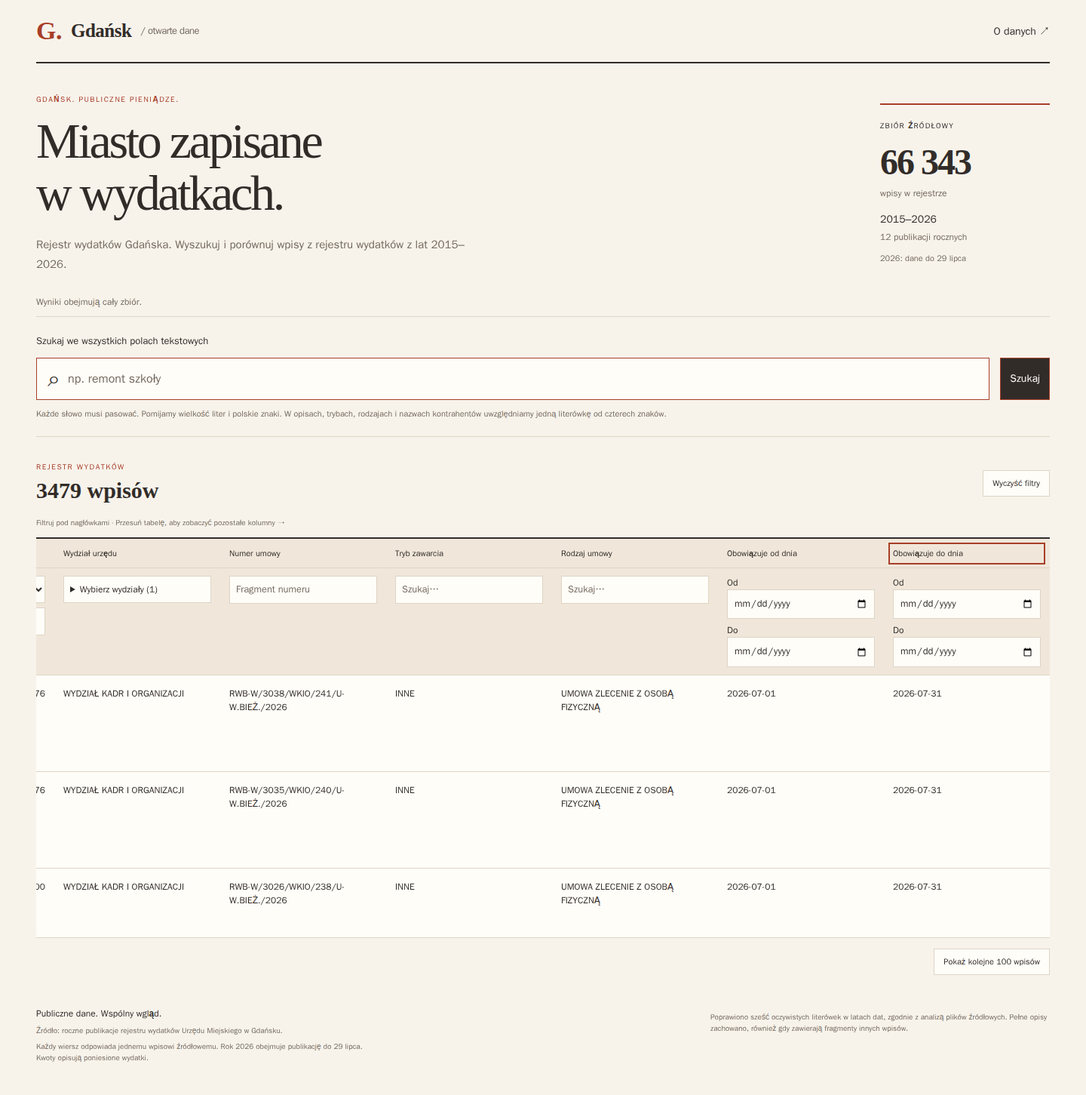
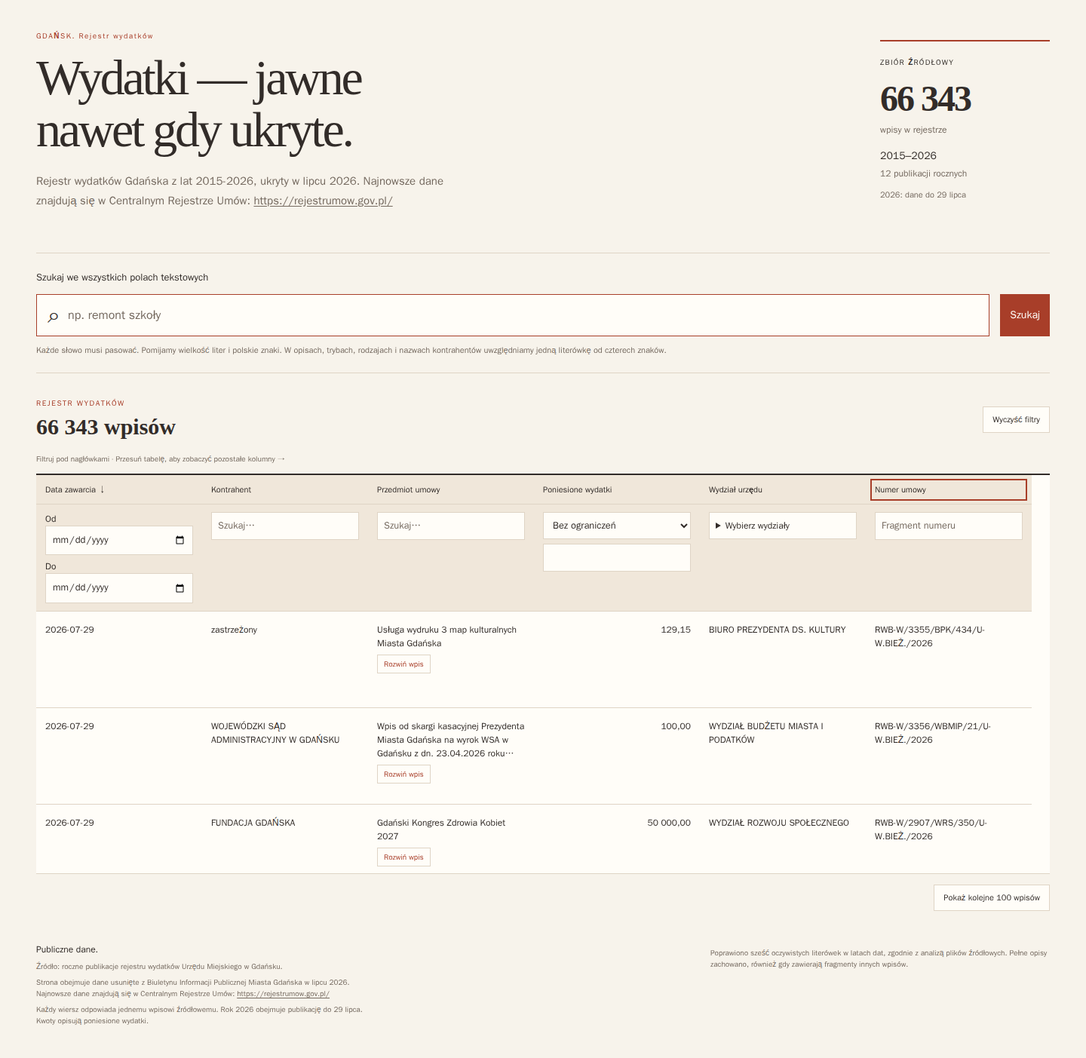
refine public copy and expense table

diff --git a/site/main.ts b/site/main.ts
@@ -1,10 +1,10 @@
 import './style.css';
 import { PAGE_SIZE } from '../src/pagination.ts';
-import { DATE_FIELDS, FUZZY_FIELDS, LABELS, normalize } from '../src/search/model.ts';
+import { LABELS, normalize } from '../src/search/model.ts';
 import type { Entry, Filters, Result } from '../src/search/model.ts';
 import type { PublicQuery } from '../src/search/public-query.ts';
 import type { Request, Response } from '../src/search/protocol.ts';
-import { COLUMNS, renderRow } from '../src/ui/record.ts';
+import { TABLE_COLUMNS, renderRow } from '../src/ui/record.ts';
 import { windowFor } from '../src/ui/window.ts';
 
 function get<T extends HTMLElement = HTMLElement>(id: string): T {
@@ -21,7 +21,8 @@ const status = get('status');
 const more = get<HTMLButtonElement>('more');
 const tableScroll = document.querySelector<HTMLElement>('.table-scroll')!;
 const integer = new Intl.NumberFormat('pl-PL');
-const textFields = [...FUZZY_FIELDS, 'contractNumber'] as const;
+const textFields = ['contractorName', 'contractSubject', 'contractNumber'] as const;
+const dateFields = ['contractDate'] as const;
 const departments = new Set<string>();
 let facets: Result['facets'] = [];
 let sort: NonNullable<PublicQuery['sort']> = { field: 'contractDate', direction: 'desc' };
@@ -37,7 +38,7 @@ function textControl(id: string, label: string, type = 'search') {
   control.id = id; control.type = type; control.setAttribute('aria-label', label);
   return control;
 }
-for (const field of COLUMNS) {
+for (const field of TABLE_COLUMNS) {
   const heading = document.createElement('th'); heading.scope = 'col'; heading.dataset.field = field;
   const button = document.createElement('button'); button.type = 'button'; button.textContent = LABELS[field];
   button.addEventListener('click', () => {
@@ -50,7 +51,7 @@ for (const field of COLUMNS) {
     const control = textControl('filter-' + field, 'Filtr: ' + LABELS[field]);
     control.placeholder = field === 'contractNumber' ? 'Fragment numeru' : 'Szukaj…';
     cell.append(control);
-  } else if (DATE_FIELDS.includes(field as typeof DATE_FIELDS[number])) {
+  } else if (dateFields.includes(field as typeof dateFields[number])) {
     for (const [key, label] of [['from', 'Od'], ['to', 'Do']]) {
       const wrapper = document.createElement('label'); wrapper.textContent = label;
       wrapper.append(textControl(field + '-' + key, LABELS[field] + ': ' + label, 'date'));
@@ -81,7 +82,7 @@ function currentQuery(): PublicQuery {
   if (operator && Number.isFinite(amount.valueAsNumber)) {
     filters.amount = { operator: operator as '>' | '<', value: amount.valueAsNumber };
   }
-  for (const field of DATE_FIELDS) {
+  for (const field of dateFields) {
     const from = input(field + '-from').value, to = input(field + '-to').value;
     input(field + '-to').setCustomValidity(from && to && from > to ? 'Data końcowa nie może poprzedzać początkowej.' : '');
     if (from || to) filters.dates![field] = { from, to };
@@ -139,7 +140,7 @@ function renderWindow(rows: Entry[], offset: number) {
   const fragment = document.createDocumentFragment();
   function spacer(height: number) {
     const row = document.createElement('tr'); row.className = 'table-spacer'; row.setAttribute('aria-hidden', 'true');
-    const cell = document.createElement('td'); cell.colSpan = COLUMNS.length; cell.style.height = height + 'px';
+    const cell = document.createElement('td'); cell.colSpan = TABLE_COLUMNS.length; cell.style.height = height + 'px';
     row.append(cell); fragment.append(row);
   }
   if (bounds.top) spacer(bounds.top);
@@ -199,7 +200,7 @@ function start() {
     get('count').textContent = integer.format(total) + ' wpisów'; get('count').dataset.total = String(total);
     get('empty').hidden = total !== 0;
     more.hidden = bounds.visible >= total; more.disabled = false;
-    status.textContent = 'Wyniki obejmują cały zbiór.';
+    status.textContent = '';
     requestAnimationFrame(() => updateWindow());
   };
   send({ type: 'init', baseUrl: new URL(import.meta.env.BASE_URL, document.baseURI).href });

diff --git a/tests/site/browser/site.spec.ts b/tests/site/browser/site.spec.ts
@@ -15,8 +15,18 @@ async function submit(page: Page) {
 }
 test('pełny zbiór, stałe ustawienia i dwie kolumny', async ({ page }) => {
   await ready(page);
+  await expect(page.locator('body > .page > header')).toHaveCount(0);
+  await expect(page.getByText('GDAŃSK. Rejestr wydatków', { exact: true })).toBeVisible();
+  await expect(page.getByRole('heading', { name: 'Wydatki — jawne nawet gdy ukryte.' })).toBeVisible();
+  await expect(page.getByText('Rejestr wydatków Gdańska z lat 2015-2026, ukryty w lipcu 2026.', { exact: false })).toBeVisible();
+  await expect(page.getByText('Strona obejmuje dane usunięte z Biuletynu Informacji Publicznej Miasta Gdańska w lipcu 2026.', { exact: false })).toBeVisible();
+  await expect(page.getByRole('link', { name: 'https://rejestrumow.gov.pl/' })).toHaveCount(2);
+  await expect(page.getByText('Wyniki obejmują cały zbiór.', { exact: true })).toHaveCount(0);
   await expect(page.locator('tr.entry-row')).toHaveCount(100);
   await expect(page.locator('#profile, #combine, #scope, #example')).toHaveCount(0);
+  await expect(page.locator('#headings th')).toHaveCount(6);
+  await expect(page.getByRole('button', { name: /^(Tryb zawarcia|Rodzaj umowy|Obowiązuje od dnia|Obowiązuje do dnia)$/ })).toHaveCount(0);
+  await expect(page.locator('#filter-contractProcedure, #filter-contractType, #contractStartDate-from, #contractStartDate-to, #contractEndDate-from, #contractEndDate-to')).toHaveCount(0);
   await page.locator('#filter-contractorName').fill('prescom');
   await page.locator('#filter-contractSubject').fill('szkolenie');
   await submit(page);
@@ -46,6 +56,10 @@ test('wąski ekran i pełny długi opis', async ({ page }) => {
   await page.getByRole('button', { name: 'Rozwiń wpis 2015:2614', exact: true }).click();
   await expect(page.locator('#record-dialog')).toBeVisible();
   await expect(page.locator('#record-fields')).toContainText('MIECZYSŁAW ROBAKOWSKI');
+  await expect(page.locator('#record-fields')).toContainText('Tryb zawarcia');
+  await expect(page.locator('#record-fields')).toContainText('Rodzaj umowy');
+  await expect(page.locator('#record-fields')).toContainText('Obowiązuje od dnia');
+  await expect(page.locator('#record-fields')).toContainText('Obowiązuje do dnia');
   await page.keyboard.press('Escape');
   await expect(page.locator('#record-dialog')).not.toBeVisible();
   expect(await page.evaluate(() => document.documentElement.scrollWidth <= innerWidth)).toBe(true);
@@ -101,7 +115,7 @@ test('wysokość wierszy odpowiada oknu także po zmianie szerokości', async ({
     expect([...new Set(heights)]).toEqual([ROW_HEIGHT]);
     const table = page.locator('.table-scroll');
     await table.evaluate(element => { element.scrollLeft = element.scrollWidth; });
-    await expect(page.getByRole('button', { name: 'Obowiązuje do dnia', exact: true })).toBeInViewport();
+    await expect(page.getByRole('button', { name: 'Numer umowy', exact: true })).toBeInViewport();
     expect(await page.evaluate(() => document.documentElement.scrollWidth <= innerWidth)).toBe(true);
   }
 });

diff --git a/site/style.css b/site/style.css
@@ -10,6 +10,7 @@ body {
 .visually-hidden { position: absolute; width: 1px; height: 1px; padding: 0; overflow: hidden; clip-path: inset(50%); white-space: nowrap; }
 a { color: inherit; text-decoration: none; }
 a:hover { text-decoration: underline; }
+.intro a, footer a { text-decoration: underline; text-underline-offset: 2px; overflow-wrap: anywhere; }
 button, input, select { font: inherit; color: inherit; border: 1px solid var(--line); border-radius: 0; background: var(--paper); padding: 8px 12px; }
 button { cursor: pointer; }
 button:hover { background: var(--soft); }
@@ -18,10 +19,6 @@ input, select { min-width: 0; width: 100%; padding: 8px; }
 input::placeholder { color: var(--muted); opacity: 1; }
 :focus-visible { outline: 2px solid var(--accent); outline-offset: 4px; }
 .page { max-width: 1680px; margin: auto; }
-header { margin: 0 48px; display: flex; align-items: center; justify-content: space-between; gap: 16px; padding: 22px 0; border-bottom: 2px solid var(--ink); }
-.wordmark { display: flex; align-items: center; gap: 12px; font: 750 25px Georgia, serif; letter-spacing: -.5px; }
-.wordmark > span:last-child { font: 400 13px system-ui, sans-serif; color: var(--muted); }
-.mark { color: var(--accent); display: inline-grid; place-items: center; font: bold 34px Georgia, serif; }
 main { padding: 0 48px; }
 .hero { display: flex; justify-content: space-between; gap: 48px; padding: 40px 0 28px; }
 .eyebrow { color: var(--accent); font-size: 10px; font-weight: 750; letter-spacing: .15em; margin: 0 0 14px; }
@@ -52,7 +49,7 @@ fieldset { min-width: 0; border: 0; margin: 0; padding: 0; }
 .table-toolbar button { font-size: 11px; }
 .scroll-hint { color: var(--muted); font-size: 10px; margin: 0 0 12px; }
 .table-scroll { overflow: auto; overflow-anchor: none; max-height: 530px; position: relative; border-top: 2px solid var(--ink); background: var(--paper); scrollbar-color: var(--muted) var(--soft); }
-table { border-collapse: separate; border-spacing: 0; table-layout: fixed; width: 2200px; font-size: 12px; }
+table { border-collapse: separate; border-spacing: 0; table-layout: fixed; width: 1320px; font-size: 12px; }
 thead { position: sticky; top: 0; z-index: 2; background: var(--soft); }
 th, td { width: 220px; min-width: 0; max-width: none; text-align: left; padding: 10px 12px; border-bottom: 1px solid var(--line); vertical-align: top; overflow-wrap: anywhere; }
 th { white-space: normal; font-weight: 550; }
@@ -91,14 +88,9 @@ dialog dd { margin: 6px 0 18px; white-space: pre-wrap; overflow-wrap: anywhere; 
 dialog dt { font-size: 10px; text-transform: uppercase; letter-spacing: .06em; color: var(--muted); font-weight: 650; }
 @media (max-width: 900px) {
   main { padding: 0 24px; }
-  header { margin: 0 24px; }
   .hero { gap: 24px; }
 }
 @media (max-width: 600px) {
-  header { margin: 0 18px; padding: 17px 0; }
-  .wordmark { gap: 8px; }
-  .wordmark > span:last-child { display: none; }
-  header > a:last-child { font-size: 11px; }
   main { padding: 0 18px; }
   .hero { padding: 28px 0 22px; display: block; }
   h1 { font-size: 45px; }

diff --git a/src/ui/record.ts b/src/ui/record.ts
@@ -1,8 +1,9 @@
 import { DATE_FIELDS, LABELS } from '../search/model.ts';
 import type { Entry } from '../search/model.ts';
-export const COLUMNS = ['contractDate', 'contractorName', 'contractSubject', 'contractCost', 'departmentOffice', 'contractNumber', 'contractProcedure', 'contractType', 'contractStartDate', 'contractEndDate'] as const;
+export const TABLE_COLUMNS = ['contractDate', 'contractorName', 'contractSubject', 'contractCost', 'departmentOffice', 'contractNumber'] as const;
+const DETAIL_FIELDS = [...TABLE_COLUMNS, 'contractProcedure', 'contractType', 'contractStartDate', 'contractEndDate'] as const;
 const amount = new Intl.NumberFormat('pl-PL', { minimumFractionDigits: 2, maximumFractionDigits: 2 });
-function display(entry: Entry, field: typeof COLUMNS[number]): string {
+function display(entry: Entry, field: typeof DETAIL_FIELDS[number]): string {
   if (field === 'contractCost') return amount.format(entry.contractCost);
   const value = entry[field];
   if (value === null) return 'Brak danych';
@@ -17,7 +18,7 @@ export function openRecord(entry: Entry) {
   const fields = document.querySelector('#record-fields')!;
   fields.replaceChildren();
   document.querySelector('#record-title')!.textContent = 'Pełny wpis ' + entry.id;
-  for (const field of COLUMNS) {
+  for (const field of DETAIL_FIELDS) {
     const label = document.createElement('dt'); label.textContent = LABELS[field];
     const value = document.createElement('dd'); value.textContent = display(entry, field);
     fields.append(label, value);
@@ -28,7 +29,7 @@ export function renderRow(entry: Entry, index: number): HTMLTableRowElement {
   const row = document.createElement('tr');
   row.className = 'entry-row'; row.dataset.id = entry.id;
   row.setAttribute('aria-rowindex', String(index + 3));
-  for (const field of COLUMNS) {
+  for (const field of TABLE_COLUMNS) {
     const cell = document.createElement('td');
     if (field === 'contractCost') cell.className = 'number';
     const box = document.createElement('div');

diff --git a/site/index.html b/site/index.html
@@ -7,16 +7,12 @@
 </head>
 <body class="editorial">
 <div class="page">
-<header>
-  <a class="wordmark" href="./"><span class="mark" aria-hidden="true">G.</span> Gdańsk <span>/ otwarte dane</span></a>
-  <a href="#o-danych">O danych ↗</a>
-</header>
 <main>
   <section class="hero" aria-labelledby="page-title">
     <div>
-      <p class="eyebrow">GDAŃSK. PUBLICZNE PIENIĄDZE.</p>
-      <h1 id="page-title">Miasto zapisane<br>w wydatkach.</h1>
-      <p class="intro">Rejestr wydatków Gdańska. Wyszukuj i porównuj wpisy z rejestru wydatków z lat 2015–2026.</p>
+      <p class="eyebrow">GDAŃSK. Rejestr wydatków</p>
+      <h1 id="page-title">Wydatki — jawne<br>nawet gdy ukryte.</h1>
+      <p class="intro">Rejestr wydatków Gdańska z lat 2015-2026, ukryty w lipcu 2026. Najnowsze dane znajdują się w Centralnym Rejestrze Umów: <a href="https://rejestrumow.gov.pl/">https://rejestrumow.gov.pl/</a></p>
     </div>
     <div class="collection">
       <span class="collection-label">ZBIÓR ŹRÓDŁOWY</span>
@@ -58,8 +54,9 @@
     </fieldset>
   </form>
   <footer id="o-danych">
-    <div><strong>Publiczne dane. Wspólny wgląd.</strong>
+    <div><strong>Publiczne dane.</strong>
     <p>Źródło: roczne publikacje rejestru wydatków Urzędu Miejskiego w Gdańsku.</p>
+    <p>Strona obejmuje dane usunięte z Biuletynu Informacji Publicznej Miasta Gdańska w lipcu 2026. Najnowsze dane znajdują się w Centralnym Rejestrze Umów: <a href="https://rejestrumow.gov.pl/">https://rejestrumow.gov.pl/</a></p>
     <p>Każdy wiersz odpowiada jednemu wpisowi źródłowemu. Rok 2026 obejmuje publikację do 29 lipca. Kwoty opisują poniesione wydatki.</p>
     </div>
     <p>Poprawiono sześć oczywistych literówek w latach dat, zgodnie z analizą plików źródłowych. Pełne opisy zachowano, również gdy zawierają fragmenty innych wpisów.</p>

diff --git a/docs/weryfikacja-strony.md b/docs/weryfikacja-strony.md
@@ -2,6 +2,8 @@
 
 Pomiar: 2026-09-09T18:41:21.829Z. Pełny zbiór: **66 343 wpisy**. Profil **`one`**, łączenie **AND**. Surowe wyniki: [pomiary.json](wyniki-strony/pomiary.json).
 
+Po tym pomiarze uproszczono warstwę prezentacji: usunięto górny pasek, tabela ma sześć kolumn, a cztery pozostałe pola są dostępne w oknie „Rozwiń wpis”. Pomiary czasów i pamięci poniżej pochodzą z wcześniejszego układu dziesięciokolumnowego; algorytm wyszukiwania i zbiór danych nie zostały zmienione. Aktualny układ, treści i szerokości sprawdzono ponownie testami Chromium.
+
 ## Środowisko i odtworzenie
 
 Chromium 153.0.8010.12 headless, Playwright 1.63.0, Node.js v24.21.0, Linux 7.0.12-linuxkit, ARM64. Kontener widzi 12 CPU i 7.75 GiB RAM; `lscpu` wskazuje producenta Apple, dokładny model procesora nie jest udostępniony. Lokalny HTTP na 127.0.0.1:4174, produkcyjny build Vite, pliki danych i indeksu gzip. Bez ograniczania CPU i sieci.
@@ -70,8 +72,8 @@ Stały koszt utrzymywanego zbioru i indeksu pozostaje w workerze; po GC jego uż
 
 | Szerokość viewportu | Szerokość dokumentu | Widoczna szerokość tabeli | Pełna szerokość tabeli | Rzeczywista wysokość wiersza |
 | ---: | ---: | ---: | ---: | ---: |
-| 1440 px | 1440 px | 1344 px | 2200 px | 128 px |
-| 390 px | 390 px | 354 px | 2200 px | 128 px |
+| 1440 px | 1440 px | 1344 px | 1320 px | 128 px |
+| 390 px | 390 px | 354 px | 1320 px | 128 px |
 
 Wysokości wszystkich aktualnych wierszy są zgodne z `ROW_HEIGHT = 128`, także po zmianie szerokości. Dokument nie przewija się poziomo; poziome przewijanie występuje wewnątrz tabeli.
 
@@ -81,13 +83,13 @@ Kontrole wykonywał agent przez zdarzenia klawiatury Playwright i ocenę zrzutó
 
 - Dropdown wydziałów: Enter otwiera i zamyka, Tab przechodzi do wyszukiwania i checkboxu, Spacja zaznacza. Wybrano „WYDZIAŁ KADR I ORGANIZACJI”: 7288 wpisów. Wpisanie niepasującej nazwy ukrywa opcję, ale zachowuje licznik zaznaczeń `(1)`; powrót do `kadr` przywraca zaznaczony checkbox.
 - Kwota `> 1000`: liczebność wybranego wydziału i główny licznik wskazują **3479**. Test sprawdza też, że widoczne kwoty spełniają warunek. [Zrzut wydziałów](wyniki-strony/wydzialy-klawiatura.png).
-- Kolejne naciśnięcia Tab osiągają wszystkie dziesięć nagłówków; przeglądarka automatycznie przesuwa tabelę do aktywnego nagłówka. Ostatnia kolumna „Obowiązuje do dnia” jest widoczna i ma obrys fokusu. [Zrzut ostatnich kolumn](wyniki-strony/ostatnie-kolumny.png).
+- Kolejne naciśnięcia Tab osiągają wszystkie sześć nagłówków; przeglądarka automatycznie przesuwa tabelę do aktywnego nagłówka. Ostatnia kolumna „Numer umowy” jest widoczna i ma obrys fokusu. [Zrzut ostatnich kolumn](wyniki-strony/ostatnie-kolumny.png).
 - Wpis `2015:2614`: pełny długi opis zawiera „MIECZYSŁAW ROBAKOWSKI”, dialog ma dziesięć pól i przewijaną treść (715 px obszaru, 3741 px zawartości). Test zamyka go Escape, skrypt pomiarowy przyciskiem „Zamknij”. [Dialog przy 390 px](wyniki-strony/dialog-mobile-viewport.png).
 - Symulowane HTTP 503 manifestu: komunikat „Nie udało się wczytać danych.”, wyłączone wyszukiwanie, pusta tabela i przycisk ponowienia. Usunięcie błędu i ponowienie przywracają 66 343 wpisy. Brak błędów `pageerror` w przebiegu pomiarowym.
 
-Porównano [produkcyjny desktop](wyniki-strony/strona-desktop.png) z [makietą desktop](../designs/previews/03-notatnik-desktop.png) oraz [viewport 390 px](wyniki-strony/strona-mobile-viewport.png) z [makietą mobile](../designs/previews/03-notatnik-mobile.png). Zachowano kremowe tło, ciemne szeryfowe nagłówki, ceglasty akcent, znak „G.”, cienkie linie, układ hero i licznika oraz wskazówkę przewijania tabeli. Na wąskim ekranie licznik i lata przechodzą pod opis, a tekst i przyciski mieszczą się w dokumencie.
+Porównano [produkcyjny desktop](wyniki-strony/strona-desktop.png) z [makietą desktop](../designs/previews/03-notatnik-desktop.png) oraz [viewport 390 px](wyniki-strony/strona-mobile-viewport.png) z [makietą mobile](../designs/previews/03-notatnik-mobile.png). Zachowano kremowe tło, ciemne szeryfowe nagłówki, ceglasty akcent, cienkie linie, układ hero i licznika oraz wskazówkę przewijania tabeli. Usunięto górny pasek strony. Na wąskim ekranie licznik i lata przechodzą pod opis, a tekst i przyciski mieszczą się w dokumencie.
 
-Różnice: produkcja nie ma paska wyboru makiet ani przykładów szybkiego wyszukiwania, ma przycisk „Szukaj” i pełny licznik 66 343. Kolejność jest zgodna z publiczną tabelą (kontrahent przed przedmiotem); kolumny mają po 220 px, wiersze stałe 128 px. Dlatego pierwszy widok mobilny pokazuje datę i fragment kontrahenta, a przedmiot wymaga przewinięcia w prawo. Nagłówek filtrów i wyższe wiersze pozostawiają mniej wpisów jednocześnie niż makieta. To zauważalny kompromis gęstości tabeli; dostęp do wszystkich kolumn został sprawdzony. Natywne pola dat w tym Chromium pokazują format placeholdera przeglądarki `mm/dd/yyyy`, mimo polskich etykiet strony.
+Różnice: produkcja nie ma paska wyboru makiet ani przykładów szybkiego wyszukiwania, ma przycisk „Szukaj” i pełny licznik 66 343. Tabela pokazuje sześć pól: datę zawarcia, kontrahenta, przedmiot, poniesione wydatki, wydział i numer umowy. Tryb, rodzaj oraz daty obowiązywania pozostają w szczegółach wpisu. Kolumny mają po 220 px, a wiersze stałe 128 px. Dlatego pierwszy widok mobilny pokazuje datę i fragment kontrahenta, a pozostałe pola wymagają przewinięcia w prawo. Dostęp do wszystkich widocznych kolumn został sprawdzony. Natywne pole daty w tym Chromium pokazuje format placeholdera przeglądarki `mm/dd/yyyy`, mimo polskiej etykiety strony.
 
 ## Telefon fizyczny — niewykonane
 
@@ -104,8 +106,8 @@ Wersje artefaktów z tej kontroli:
 | Plik | Rozmiar |
 | --- | ---: |
 | `index.html` | 3 966 B |
-| `assets/index-BCvVvOhf.css` | 7 624 B |
-| `assets/index-DAEfrvvi.js` | 9 293 B |
+| `assets/index-D2QOrSxQ.css` | 7 153 B |
+| `assets/index-CD9LrStk.js` | 9 459 B |
 | `assets/worker-D4Fkauf4.js` | 22 473 B |
 | `generated/manifest.json` | 3 416 B |
 | `generated/records.ecb1865a1975168b.json` | 37 150 709 B |
@@ -113,7 +115,7 @@ Wersje artefaktów z tej kontroli:
 | `generated/index.52682b4e6d620f31.json` | 14 625 160 B |
 | `generated/index.52682b4e6d620f31.json.gz` | 3 939 871 B |
 
-Łączny rozmiar `dist/` wynosi 60 967 824 B. Kontrola potwierdza działanie relatywnego `base: './'` bez kodowania w adresach nazwy przyszłego repozytorium.
+Łączny rozmiar plików `dist/` wynosi 60 967 663 B. Kontrola potwierdza działanie relatywnego `base: './'` bez kodowania w adresach nazwy przyszłego repozytorium.
 
 Do odtworzenia kontroli zbuduj stronę, skopiuj całą zawartość `dist/` do `podglad/rejestr/` pod zwykłym serwerem statycznym i otwórz `/rejestr/`. Sprawdź oba wejścia (pierwsze oraz odświeżenie), liczbę 66 343 oraz odpowiedzi dla workera, manifestu i obu plików `.json.gz`. Serwer powinien udostępniać zwykłe bajty gzip, bez własnego `Content-Encoding`.
 
@@ -132,11 +134,11 @@ Końcowa kontrola tego pakietu użyła tej samej kolejności co workflow:
 | `npm run test:site:unit` | 2 testy zaliczone, 0 błędów; 78,36 ms |
 | `npm run build` | przygotowano 66 343 wpisy, kontrola TypeScript przeszła, Vite: 92 ms |
 | `npx playwright install --with-deps chromium` | Chromium i zależności systemowe dostępne; bez nowych pakietów systemowych |
-| `npm run test:site:browser` | 8 testów zaliczonych; 11,2 s |
+| `npm run test:site:browser` | 9 testów zaliczonych; kontrola powtórzona po zmianie treści i kolumn |
 
 ## Testy i czułość regresji
 
-Osiem testów przeglądarkowych obejmuje wymagane pięć scenariuszy oraz wysokość wierszy, klawiaturę i liczebności wydziałów, a także skuteczne ponowienie pobrania. Testy korzystają z publicznych kontrolek, `tr.entry-row`, `data-id`, `#count[data-total]`, natywnego dialogu i istniejących atrybutów gotowości. Nie dodano kontrolek debugowania ani zmian w kodzie produkcyjnym.
+Dziewięć testów przeglądarkowych obejmuje wymagane pięć scenariuszy, zachowanie fokusu przy przesuwaniu okna, wysokość wierszy, klawiaturę i liczebności wydziałów oraz skuteczne ponowienie pobrania. Testy sprawdzają również aktualne treści, sześć widocznych kolumn, brak usuniętych filtrów i obecność wszystkich dziesięciu pól w „Rozwiń wpis”. Korzystają z publicznych kontrolek, `tr.entry-row`, `data-id`, `#count[data-total]`, natywnego dialogu i istniejących atrybutów gotowości.
 
 Wymagane pięć testów było zielonych od pierwszego uruchomienia na istniejącym buildzie (8,1 s); po rozszerzeniu osiem testów także przeszło (11,4 s). Nie wykryto rzeczywistej rozbieżności wymagającej poprawki. Dodatkowo kontrolowana, tymczasowa mutacja CSS wysokości wiersza z 128 na 129 px dała RED: test zgłosił oczekiwane `[128]`, otrzymane `[129]`. Przywrócono plik i ponownie zbudowano stronę przed końcową weryfikacją GREEN. To dowód czułości testu, nie opis naprawy istniejącego błędu.
 
@@ -147,7 +149,7 @@ Końcowa weryfikacja po przywróceniu CSS:
 | `npm test` | 13 testów, 13 zaliczonych, 0 błędów; 338,73 ms |
 | `npm run test:site:unit` | 2 testy, 2 zaliczone, 0 błędów; 75,81 ms |
 | `npm run build` | przygotowano 66 343 wpisy; TypeScript i build poprawne; Vite 105 ms |
-| `npm run test:site:browser` | 8 testów zaliczonych; 11,2 s |
+| `npm run test:site:browser` | 9 testów zaliczonych; kontrola powtórzona po zmianie treści i kolumn |
 | `npm run build:poc` | TypeScript i build POC poprawne; Vite 85 ms |
 | `npm run measure:site` | zapisano trzy zimne starty, dziewięć zapytań, 35 kroków przewijania, pamięć obu wątków i pięć zrzutów |
 

diff --git a/README.md b/README.md
@@ -42,7 +42,7 @@ Wejściem CI są śledzone pliki `data/`, współdzielony loader `scripts/dane-p
 
 `base: './'` pozwala umieścić gotowy katalog również pod zagnieżdżoną ścieżką. Lokalna kontrola opisana w [weryfikacji strony](docs/weryfikacja-strony.md#pakiet-statyczny-w-podkatalogu) umieszcza `dist/` pod `/rejestr/` i sprawdza wejście oraz odświeżenie, wraz z workerem, manifestem i danymi gzip.
 
-Wpisane słowa i aktywne filtry łączą się przez **AND**: wpis musi spełniać każde kryterium. Można jednocześnie szukać globalnie i w kilku kolumnach. Pomijamy wielkość liter i polskie znaki. W przedmiocie, trybie, rodzaju i nazwie kontrahenta działa tolerancja **jednej edycji od czterech znaków** (profil `one`); zamiana kolejności dwóch liter może wymagać dwóch edycji. Numery umów i nazwy wydziałów są sprawdzane jako fragmenty bez tolerancji literówek. Kilka zaznaczonych wydziałów oznacza dowolny z wybranych wydziałów. Filtry dat obejmują granice zakresu, kwota jest porównywana ściśle (`>` albo `<`). Sortowanie zachowuje filtry, a „Rozwiń wpis” pokazuje wszystkie dziesięć pól i pełny opis.
+Wpisane słowa i aktywne filtry łączą się przez **AND**: wpis musi spełniać każde kryterium. Można jednocześnie szukać globalnie i w kilku widocznych kolumnach. Pomijamy wielkość liter i polskie znaki. W przedmiocie, trybie, rodzaju i nazwie kontrahenta działa tolerancja **jednej edycji od czterech znaków** (profil `one`); zamiana kolejności dwóch liter może wymagać dwóch edycji. Numery umów i nazwy wydziałów są sprawdzane jako fragmenty bez tolerancji literówek. Kilka zaznaczonych wydziałów oznacza dowolny z wybranych wydziałów. Filtr daty zawarcia obejmuje granice zakresu, a kwota jest porównywana ściśle (`>` albo `<`). Sortowanie zachowuje filtry. „Rozwiń wpis” pokazuje wszystkie dziesięć pól, w tym tryb, rodzaj i daty obowiązywania umowy, oraz pełny opis.
 
 Weryfikacja lokalna (testy przeglądarkowe wymagają wcześniejszego `npm run build`):
 
